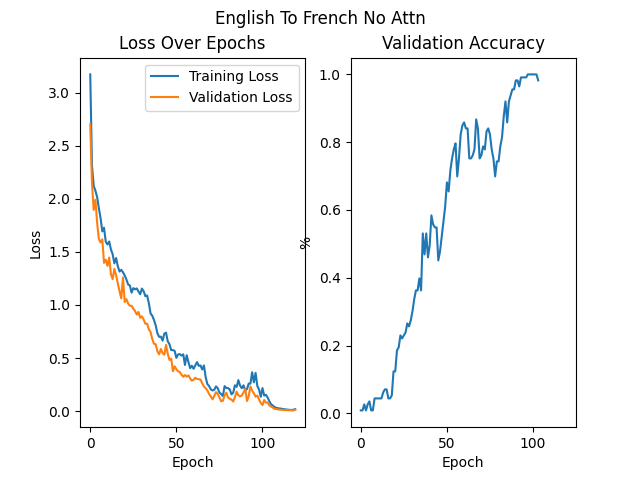
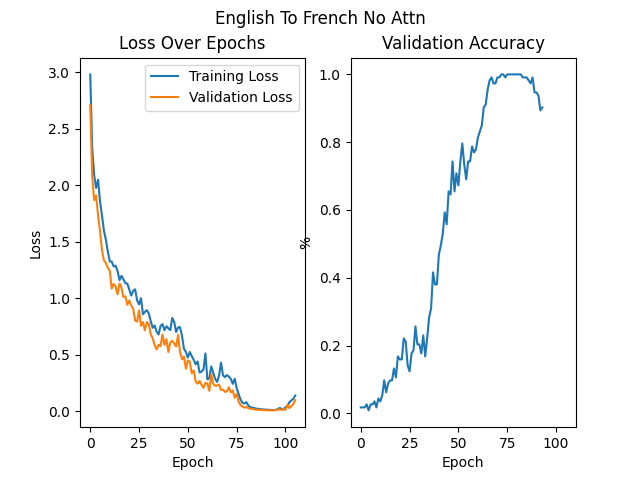
Both models memorize training data

diff --git a/HM4/jlib/encoderdecoder.py b/HM4/jlib/encoderdecoder.py
@@ -19,8 +19,10 @@ class EncoderRNN(nn.Module):
         self.hidden_size = hidden_size
         self.embed = nn.Embedding(input_size, hidden_size)
         self.rnn = nn.GRU(hidden_size, hidden_size, n_layers, dropout=dropout, batch_first=True)
+        self.dropout = nn.Dropout(dropout)
     def forward(self, x: torch.Tensor) -> tuple[torch.Tensor, torch.Tensor]:
         embedded = self.embed(x)#.view(1, 1, -1)
+        embedded = self.dropout(embedded)
         outputs, hidden = self.rnn(embedded)
         return outputs, hidden
     
@@ -37,6 +39,7 @@ class DecoderRNN(nn.Module):
         self.max_sentence_length = max_sentence_length
         self.teacher_forcing_ratio = teacher_forcing_ratio
         self.embed = nn.Embedding(output_size, hidden_size)
+        self.dropout = nn.Dropout(dropout)
         self.rnn = nn.GRU(hidden_size, hidden_size, n_layers, dropout=dropout, batch_first=True)
         self.out = nn.Linear(hidden_size, output_size)
 
@@ -61,7 +64,7 @@ class DecoderRNN(nn.Module):
     
     def forward_step(self, input_tensor: torch.Tensor, hidden: torch.Tensor) -> tuple[torch.Tensor, torch.Tensor]:
         embedded = self.embed(input_tensor)
-        output = F.relu(embedded)
+        output = self.dropout(embedded)
         output, hidden = self.rnn(output, hidden)
         output: torch.Tensor = self.out(output)
         return output, hidden
@@ -75,11 +78,11 @@ class DecoderRNN(nn.Module):
 class BahdanauAttention(nn.Module):
     def __init__(self, hidden_size):
         super().__init__()
-        self.Wa = nn.Linear(hidden_size, hidden_size)
-        self.Ua = nn.Linear(hidden_size, hidden_size)
-        self.Va = nn.Linear(hidden_size, 1)
+        self.query_matrix = nn.Linear(hidden_size, hidden_size)
+        self.key_matrix = nn.Linear(hidden_size, hidden_size)
+        self.value_matrix = nn.Linear(hidden_size, 1)
     def forward(self, query, keys):
-        scores = self.Va(torch.tanh(self.Wa(query) + self.Ua(keys)))
+        scores = self.value_matrix(torch.tanh(self.query_matrix(query) + self.key_matrix(keys)))
         scores = scores.squeeze(2).unsqueeze(1)
         weights = F.softmax(scores, dim=-1)
         context = torch.bmm(weights, keys)
@@ -95,7 +98,8 @@ class AttnDecoderRNN(nn.Module):
         self.teacher_forcing_ratio = teacher_forcing_ratio
         self.embed = nn.Embedding(output_size, hidden_size)
         self.attention = BahdanauAttention(hidden_size)
-        self.rnn = nn.GRU(hidden_size, hidden_size, n_layers, dropout=dropout, batch_first=True)
+        self.rnn = nn.GRU(2*hidden_size, hidden_size, n_layers, dropout=dropout, batch_first=True)
+        self.dropout = nn.Dropout(dropout)
         self.out = nn.Linear(hidden_size, output_size)
         
     def forward(self, encoder_outputs: torch.Tensor, encoder_hidden: torch.Tensor, target_tensor: torch.Tensor = None) -> tuple[torch.Tensor, torch.Tensor]:
@@ -119,9 +123,10 @@ class AttnDecoderRNN(nn.Module):
     
     def forward_step(self, input: torch.Tensor, hidden: torch.Tensor, encoder_outputs: torch.Tensor) -> tuple[torch.Tensor, torch.Tensor, torch.Tensor]:
         embedded = self.embed(input)
-        query = hidden.permute(1, 0, 2)
+        embedded = self.dropout(embedded)
+        query = hidden[-1].unsqueeze(1)  # Use the last layer's hidden state
         context, attention_weights = self.attention(query, encoder_outputs)
-        gru_in = torch.cat([embedded, context], dim=-1)
+        gru_in = torch.cat([embedded, context], dim=2)
         output, hidden = self.rnn(gru_in, hidden)
         output = self.out(output)
         return output, hidden, attention_weights

diff --git a/HM4/testp2.py b/HM4/testp2.py
@@ -1,0 +1,45 @@
+from data import english_to_french
+import torch
+from torch import nn
+from jlib.get_enfr_loader import EnglishToFrench, Language, get_enfr_loader
+from jlib.encoderdecoder import Translator, AttnDecoderRNN
+from torch.utils.data import DataLoader
+
+en2fr = EnglishToFrench(english_to_french, max_length=10, gpu=True)
+
+state_dict = torch.load('models/p2.pth')
+translator = Translator(
+    input_size = en2fr.en.n_words,
+    output_size = en2fr.fr.n_words,
+    decoder=AttnDecoderRNN,
+    teacher_forcing_ratio=0.5,
+    hidden_size = 1024,
+    n_layers = 5,
+    dropout = 0.5,
+)
+
+translator.load_state_dict(state_dict)
+translator.decoder.teacher_forcing_ratio = 0
+translator.to('cuda')
+translator.eval()
+translator.decoder.eval()
+translator.encoder.eval()
+while True:
+    sentence = input('Enter a sentence: ')
+    sentence.lower()
+    if sentence == 'exit':
+        break
+    try:
+        seq = en2fr.en.sentence_to_sequence(sentence)
+    except KeyError:
+        print("Error: Unkown Input Word")
+        continue
+    seq = torch.tensor(seq, dtype=torch.long).to('cuda').unsqueeze(0)
+    output = translator.forward(seq)
+    sentence = en2fr.fr.sequence_to_sentence(output.argmax(dim=-1).squeeze())
+    print("Translation: ")
+    print(sentence)
+    print()
+    
+
+

diff --git a/HM4/train_attn.py b/HM4/train_attn.py
@@ -25,19 +25,19 @@ translator = Translator(
     decoder=AttnDecoderRNN,
     teacher_forcing_ratio=0.5,
     hidden_size = 1024,
-    n_layers = 5,
+    n_layers = 1,
     dropout = 0.5,
 )
 
 translator.train_model(
-    epochs = 120,
+    epochs = 20,
     train_loader = train_loader,
     val_loader = val_loader,
     optimizer=torch.optim.Adam,
     optimizer_kwargs={'lr': 1e-3, 'weight_decay': 1e-5},
     min_accuracy=1,
     sched_patience=100,
-    max_negative_diff_count=20,
+    max_negative_diff_count=100,
     save_path='models/p2.pth'
 )
 
